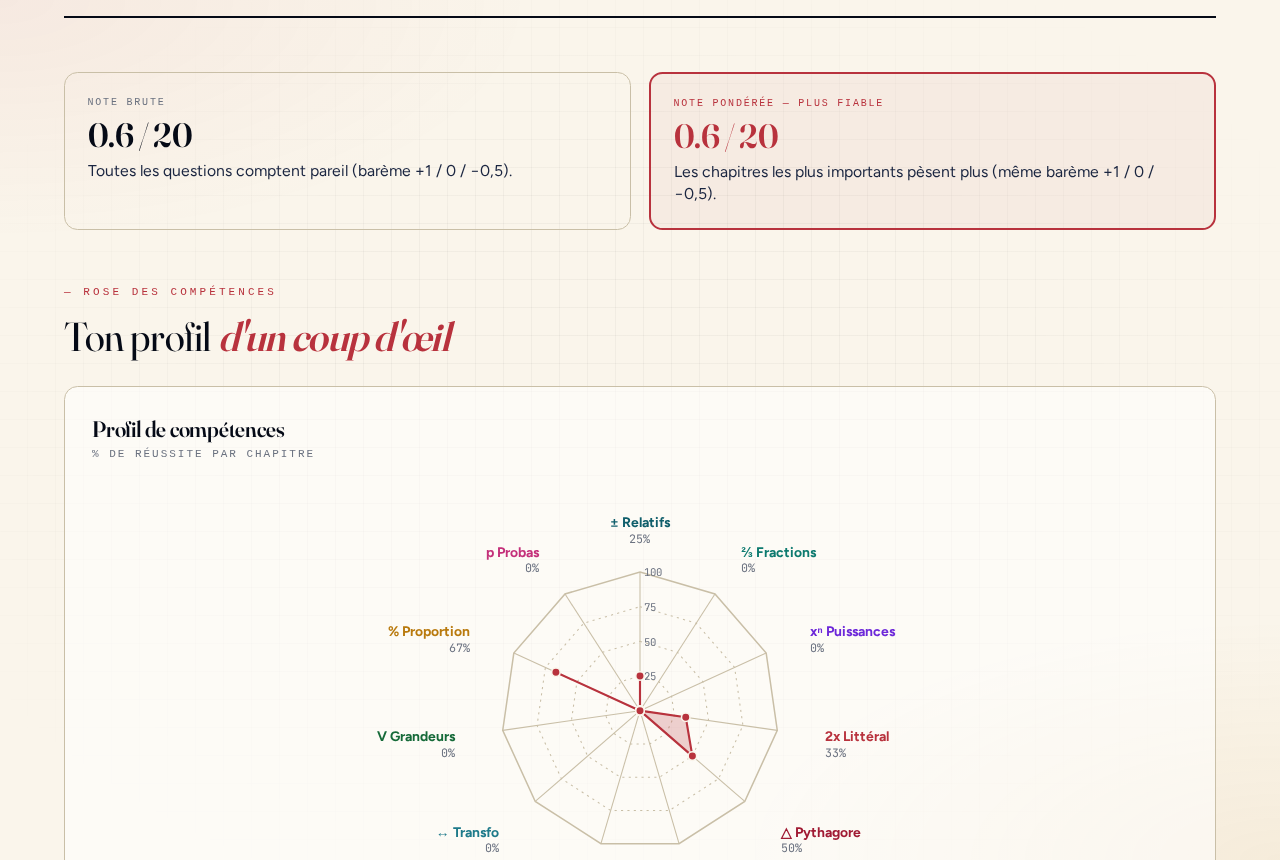
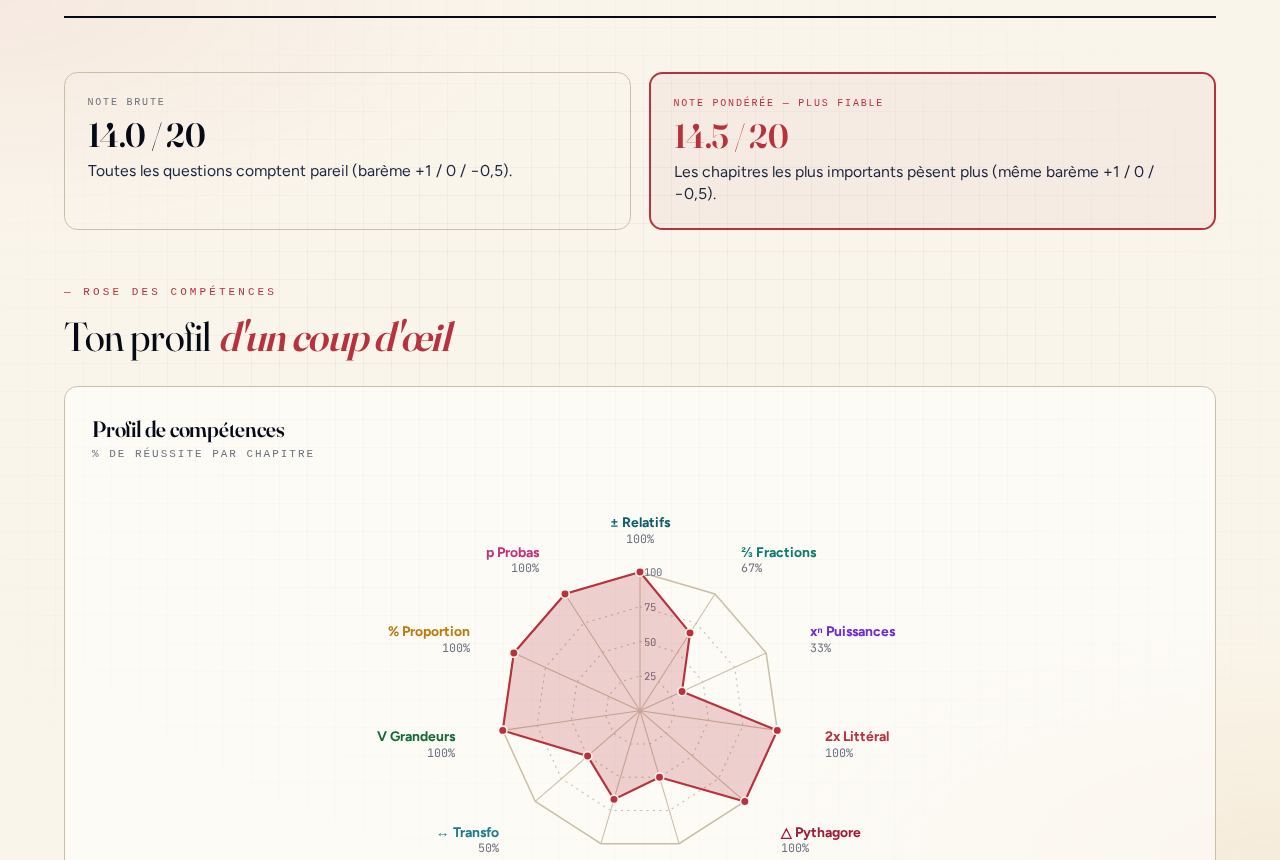
docs: screenshot radar plus représentatif (14/20 au lieu de 0,6/20)
Le seed utilisait des clés inexistantes du pool + un mapping `order` qui rendait toutes les réponses incorrectes après rebuild. Nouveau seed avec les vraies clés de maths-4 et sans `order` pour que le fallback `ok ? correctIdx : correctIdx+1` de rebuildFromAttempt produise une vraie réussite par question.

Changed region(s): [[0.375, 0.6651, 0.625, 0.9372], [0.0625, 0.1209, 0.1562, 0.1814], [0.5312, 0.1209, 0.625, 0.1814]]

diff --git a/docs/screenshots.spec.js b/docs/screenshots.spec.js
@@ -34,22 +34,40 @@ test('02 — quiz (question active)', async ({ page }) => {
 });
 
 test('03 — rapport avec radar', async ({ page }) => {
-  // Seed un attempt factice avec log réel pour déclencher le mode historique
+  // Seed un attempt avec de VRAIES clés du pool maths-4. En omettant `order`,
+  // rebuildFromAttempt utilise le fallback `ans = ok ? correctIdx : (correctIdx+1)%N`
+  // — chaque ok:true devient donc une réponse exacte après rebuild,
+  // et l'analyse recalcule une note cohérente (≈ 14/20 ici).
   const FIXED = '2026-04-20T10:30:00.000Z';
   await page.addInitScript((date) => {
     localStorage.setItem('quiz-active-student', JSON.stringify({ name: 'Alice', slug: 'alice' }));
-    // Construit un log varié : 22 bonnes, 5 mauvaises, 3 passées sur maths-4 (clés réelles du pool)
-    const keys = ['rel-1','rel-2','rel-3','rel-4','pot-1','pot-2','pot-3','pot-4','pot-5','pyt-1','pyt-2','pyt-3','pyt-4','tha-1','tha-2','tha-3','sta-1','sta-2','sta-3','pro-1','pro-2','pro-3','lit-1','lit-2','lit-3','eqn-1','eqn-2','vol-1','vol-2','vol-3'];
-    // 20 bonnes (given = correct index via order mapping), 5 mauvaises, 5 passées
-    const log = keys.map((k, i) => {
-      const base = { pos: i+1, key: k, domain: 'relatifs', ok: true, ms: 2000 + i*100, hinted: false, order: [0,1,2,3] };
-      if (i < 20) return { ...base, given: 0, correct: 0, ok: true };   // assume first option is correct after order mapping
-      if (i < 25) return { ...base, given: 1, correct: 0, ok: false };  // wrong
-      return { ...base, given: null, correct: 0, ok: false };            // skipped
-    });
+    // 30 questions sur tous les domaines de maths-4, réussites variées
+    // pour que le radar dessine de vraies pointes et creux.
+    const plan = [
+      ['rel-1', true], ['rel-2', true], ['rel-3', true], ['rel-4', true],
+      ['fra-1', true], ['fra-2', true], ['fra-3', false],
+      ['pui-1', true], ['pui-2', false], ['pui-3', false],
+      ['lit-1', true], ['lit-2', true], ['lit-3', true],
+      ['pyt-1', true], ['pyt-2', true], ['pyt-3', true],
+      ['tha-1', true], ['tha-2', false],
+      ['tri-1', true], ['tri-2', true], ['tri-3', false],
+      ['gra-1', true], ['gra-2', true],
+      ['pro-1', true], ['pro-2', true], ['pro-3', true],
+      ['tra-1', true], ['tra-2', false],
+      ['pb-1',  true], ['pb-2',  true],
+    ];
+    const correct = plan.filter(p => p[1]).length;
+    const wrong = plan.length - correct;
+    const note = +(Math.max(0, (correct - 0.5 * wrong) / plan.length) * 20).toFixed(2);
+    const log = plan.map(([key, ok], i) => ({
+      pos: i + 1, key, domain: '',
+      given: ok ? 0 : 1, correct: 0,
+      ok, ms: 2400 + (i * 190) % 3500, hinted: false,
+    }));
     const hist = { alice: { name: 'Alice', klass: '4ème', attempts: [{
-      date, mode:'training', note: 14.5, noteRaw: 13.8,
-      correct: 20, total: 30, totalMs: 480000, domains: {}, log,
+      date, mode: 'training', note, noteRaw: note,
+      correct, total: plan.length, totalMs: 505000,
+      domains: {}, log,
     }] } };
     localStorage.setItem('quiz-maths-4-history-v1', JSON.stringify(hist));
   }, FIXED);
